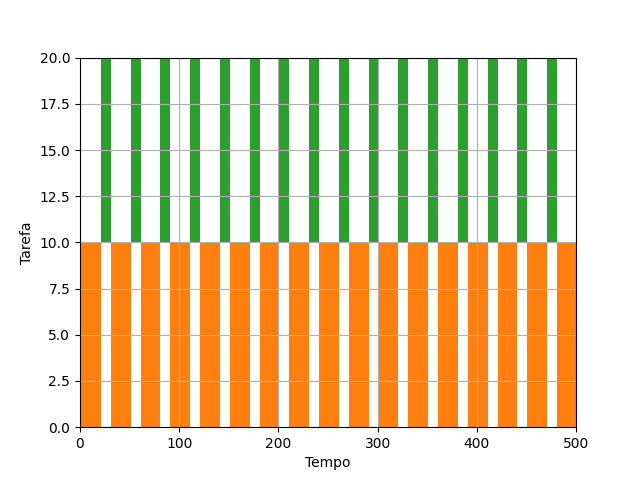
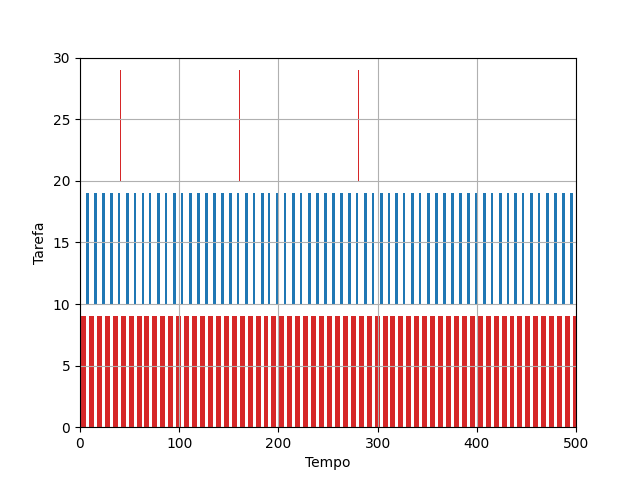
Uploading response-time analysis implementation

diff --git a/main.py b/main.py
@@ -1,6 +1,6 @@
 from copy import deepcopy
 import matplotlib.pyplot as plt
-import random
+import random, math
 
 algoritmo_escalonamento = 'EDF'
 tempo_atual = 0
@@ -124,7 +124,7 @@ class Gantt_Plotter:
         self.gnt.grid(True)
 
     def desenha_tarefa(self, tarefa, instante):
-        self.gnt.broken_barh([(instante, 1)], (10*tarefa.prioridade, 10), facecolors = (self.tarefa_cor[tarefa.prioridade]))
+        self.gnt.broken_barh([(instante, 1)], (10*tarefa.prioridade, 9), facecolors = (self.tarefa_cor[tarefa.prioridade]))
 
     def salva_diagrama(self):
         plt.savefig("Gantt_Diagram.png")
@@ -159,6 +159,26 @@ def ordenar_edf(tarefas):
     for index, tarefa in enumerate(tarefas): tarefa.set_prioridade(index)
     return tarefas
 
+def analise_tempo_resposta(tarefas, tempo_maximo):
+    for tarefa in reversed(tarefas):
+        print(f"Calculando tempo de resposta da tarefa com prioridade {tarefa.prioridade}")
+
+        valor_iteracao_passada = tarefa.tempo_execucao
+
+        for iteracao in range(0, tempo_maximo):
+            valor_iteracao = tarefa.tempo_execucao
+
+            for tarefa_maior_prioridade in tarefas:
+                if tarefa_maior_prioridade == tarefa:
+                    break
+                valor_iteracao += math.ceil(valor_iteracao_passada/tarefa_maior_prioridade.intervalo)*tarefa_maior_prioridade.tempo_execucao
+
+            if valor_iteracao == valor_iteracao_passada:
+                if valor_iteracao > tarefa.intervalo:
+                    #Sistema não é escalonável
+                    return valor_iteracao, tarefa
+                break
+            valor_iteracao_passada = valor_iteracao
 
 
 if __name__ == '__main__':
@@ -197,9 +217,15 @@ if __name__ == '__main__':
         if not processador.executa():
             escalonavel = False
             break
+    
+    if not processador.fila.isEmpty():
+        escalonavel = False
 
     if escalonavel:
         print("O sistema é escalonável. Gerando diagrama de Gantt...")
         gantt_plotter.salva_diagrama()
     else:
         print("O sistema não é escalonável")
+        print("Calculando análise em tempo de resposta para cada tarefa...")
+        tempo_resposta, tarefa = analise_tempo_resposta(tarefas, tempo_maximo)
+        print(f"O sistema não é escalonável. Pois a tarefa de prioridade {tarefa.prioridade} tem deadline {tarefa.intervalo} e o tempo de resposta calculada foi {tempo_resposta}")

diff --git a/README.md b/README.md
@@ -1,0 +1,2 @@
+Para executar no windows, rode o comando:
+cat teste.in | python main.py
